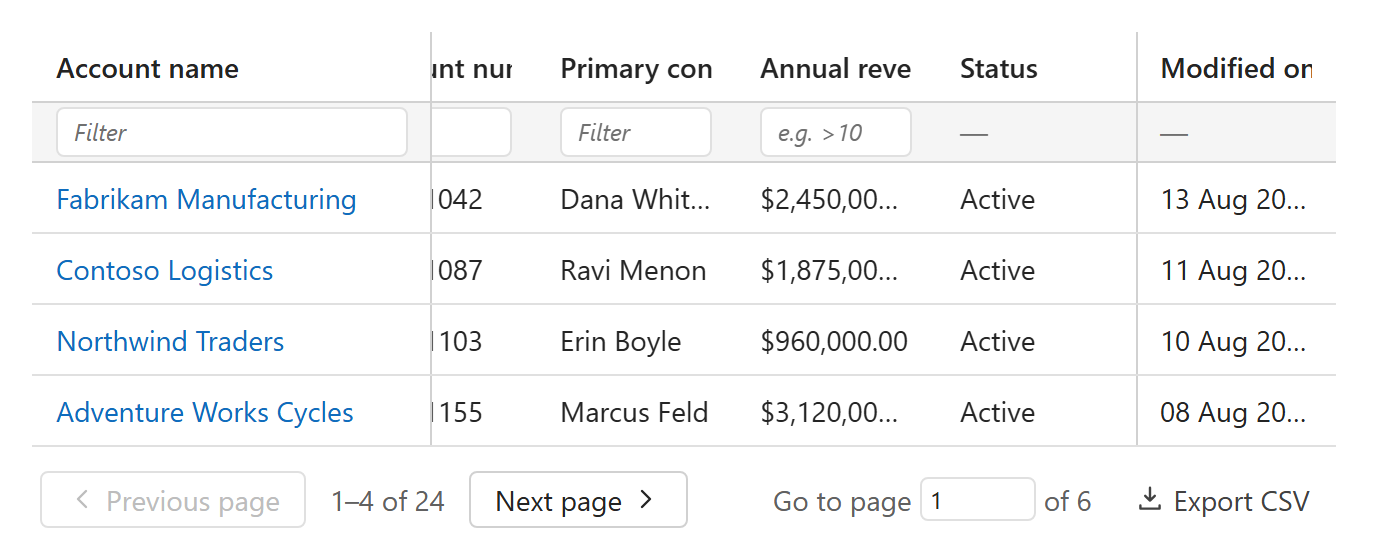
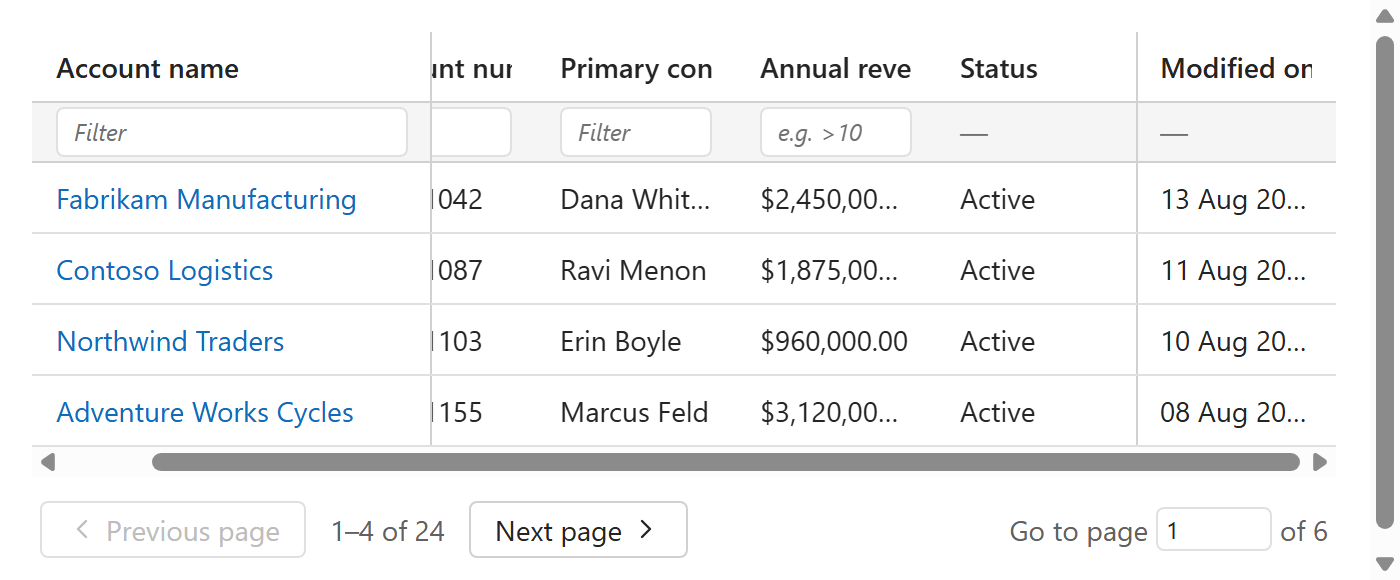
An untouched editor closes instead of failing to save
Open a cell, change nothing, click away: a red "could not be saved. Invalid
snapshot with id undefined" under a cell nobody had edited. Observed on a real
subgrid.

The blur handler committed unconditionally, and committing an unchanged value
calls `setValue` with what the record already holds — which stages nothing, and
`save()` with nothing staged throws. **That error does not mean "wrong column
name"; it means "there is no pending change to save"**, and a wrong column name
is only one way to have none. The 0.3.3 note reading it as the former was
narrower than the truth.

Untouched editors now close on both blur and Enter, compared as the strings the
editor holds: `props.initial` is what `editorValue` put in the box, so the test
is exactly "did the user alter what they were shown" — no coercion, no 20 versus
20.00 argument.

Measured in a browser, both directions, because the suite cannot see it. Two
things went wrong while measuring and both are worth more than the fix:
`chrome --headless --dump-dom` returned zero bytes and PowerShell's `-match`
against `$null` answers False without complaining, so the first "verified" run
read nothing and reported an absent error as proof — the `img.src` bug again, a
check that silently reads the wrong thing reporting its own blindness as proof.
And `element.blur()` does nothing when the document is not focused, so the
gesture never fired; dispatching the event directly is what reaches React.
[…]

diff --git a/dev/preview.html b/dev/preview.html
@@ -33,7 +33,10 @@
     ?pinStart=1&pinEnd=1   pin that many columns at each end
     ?edit=1                turn editing on
     ?open=1                and open the first editable cell's editor
+    ?blur=1                then leave it untouched — the no-op commit case
+    ?type=Text             or type this into it and leave — the committing case
     ?filter=in             type a filter into the first text column
+    ?export=1              show the Export CSV button (manifest default is off)
     ?select=none|single|multiple
     ?page=25               page size
 -->
@@ -136,7 +139,10 @@
                 selectionMode: params.get('select') || 'multiple',
                 enableSorting: true,
                 enableFiltering: true,
-                enableExport: true,
+                // Manifest default is off. `?export=1` turns it on, so a narrow
+                // capture shows what an unconfigured control actually looks
+                // like rather than one with every switch flipped.
+                enableExport: params.get('export') === '1',
                 openOnRowClick: true,
                 pageSize: number('page'),
                 pageSizeOptions: params.get('sizes'),
@@ -232,6 +238,65 @@
                 if (trigger) {
                     trigger.click();
                 }
+            }
+
+            /*
+              Open a cell and leave it without touching it — the gesture that
+              produced a red error under a cell nobody had edited. Committing an
+              unchanged value stages nothing, and `save()` with nothing staged
+              throws `Invalid snapshot with id undefined`.
+
+              A second timeout because the editor mounts and focuses in an
+              effect, which has not run when this one does.
+            */
+            /*
+              Type into the open editor and leave it — the committing case, and
+              the other half of what `?blur` proves. Without this pair, a fix
+              that stopped an untouched editor writing could equally be a fix
+              that stopped every editor writing.
+
+              Through the prototype setter because React tracks the previous
+              value on the node and swallows a direct `.value =` as "no change".
+            */
+            var typed = params.get('type');
+
+            if (typed !== null) {
+                window.setTimeout(function () {
+                    var editor = document.querySelector('.DataTable-editor');
+
+                    if (editor) {
+                        Object.getOwnPropertyDescriptor(
+                            window.HTMLInputElement.prototype,
+                            'value',
+                        ).set.call(editor, typed);
+                        editor.dispatchEvent(new Event('input', { bubbles: true }));
+
+                        /*
+                          Blur in a *later* task, not this one.
+
+                          The blur handler closes over the `value` of the render
+                          it was created in, and React has not re-rendered yet
+                          when the input event returns — so blurring here reads
+                          the value from before the keystroke, decides nothing
+                          changed, and cancels. A person typing cannot hit that:
+                          their keystroke and their click are separate tasks.
+                          This is the repro being wrong, not the control.
+                        */
+                        window.setTimeout(function () {
+                            editor.blur();
+                        }, 50);
+                    }
+                }, 100);
+            }
+
+            if (params.get('blur') === '1') {
+                window.setTimeout(function () {
+                    var editor = document.querySelector('.DataTable-editor');
+
+                    if (editor) {
+                        editor.blur();
+                    }
+                }, 100);
             }
 
             document.title = 'ready';

diff --git a/DataTable/components/DataTableControl.tsx b/DataTable/components/DataTableControl.tsx
@@ -81,10 +81,37 @@ function CellEditor(props: {
         }
     }, []);
 
+    /**
+     * Leaving the editor.
+     *
+     * **An untouched editor closes without writing**, and that is a fix rather
+     * than an optimisation. Committing an unchanged value calls `setValue` with
+     * what the record already holds, which stages nothing — and `save()` with
+     * nothing staged throws `UciError: Invalid snapshot with id undefined`. So
+     * opening a cell, changing your mind and clicking away produced a red error
+     * under a cell nobody had edited, observed on a real subgrid 2026-09-09.
+     *
+     * That error string is the same one a wrong column name produces, which is
+     * worth knowing: it means "there is no pending change to save", and a bad
+     * column name is only one way to have none.
+     *
+     * Compared as the strings the editor holds rather than as coerced values.
+     * `props.initial` is what `editorValue` put in the box, so the comparison is
+     * exactly "did the user alter what they were shown" — no type coercion, no
+     * `20` versus `20.00` argument, and nothing to get wrong per column type.
+     */
     const finish = (): void => {
-        if (!cancelled.current) {
-            props.onCommit(value);
+        if (cancelled.current) {
+            return;
         }
+
+        if (value === props.initial) {
+            props.onCancel();
+
+            return;
+        }
+
+        props.onCommit(value);
     };
 
     const onKeyDown = (event: React.KeyboardEvent): void => {
@@ -98,7 +125,10 @@ function CellEditor(props: {
 
         if (event.key === 'Enter') {
             event.preventDefault();
-            props.onCommit(value);
+            // Through `finish` rather than straight to `onCommit`: Enter on an
+            // untouched cell is the same "nothing changed" as clicking away, and
+            // committing it throws the same `Invalid snapshot` error.
+            finish();
         }
     };
 

diff --git a/DataTable/css/DataTable.css b/DataTable/css/DataTable.css
@@ -403,6 +403,21 @@
      * so the width that matters is the box it was handed, not the screen.
      */
     margin-inline-start: auto;
+    /*
+     * **Without this the group cannot wrap, and it is clipped instead.**
+     *
+     * `flex-wrap: wrap` above only engages against a constrained width, and a
+     * flex item's width comes from its content — so on a narrow host the group
+     * sized itself to "Go to page [1] of 8  Export CSV", overflowed the row and
+     * was cut off by the host. Observed at 368px, 2026-09-09: the jump box's
+     * label ran off the right edge and Export was a sliver.
+     *
+     * `max-width: 100%` is what turns the content-sized item into a constrained
+     * one, so the wrap that was already asked for actually happens. The `auto`
+     * margin still right-aligns it whenever it does fit on the line, which is
+     * the behaviour at every width that is not a phone.
+     */
+    max-width: 100%;
 }
 
 /*

diff --git a/SPEC.md b/SPEC.md
@@ -945,3 +945,71 @@ the top. Adopting the template's harness is worth doing and was not this change.
 gets the capture page without rebuilding it — SPEC has described it as "~90
 lines, not in the repo" through two releases, and it has now been written three
 times.
+
+## 0.3.4
+
+Two fixes, both found by looking at the control rather than at the code.
+
+### An untouched editor wrote, and the write failed
+
+Open a cell, change nothing, click away: a red *"Score could not be saved.
+Invalid snapshot with id undefined"* under a cell nobody had edited. Observed on
+a real subgrid, 2026-09-09.
+
+The blur handler committed unconditionally. Committing an unchanged value calls
+`setValue` with what the record already holds, which stages nothing — and
+`save()` with nothing staged throws. **That error string does not mean "wrong
+column name"; it means "there is no pending change to save",** and a wrong column
+name is only one way to have none. The 0.3.3 note that reads it as the former is
+narrower than the truth.
+
+An untouched editor now closes without writing, on both blur and Enter. Compared
+as the strings the editor holds — `props.initial` is what `editorValue` put in
+the box — so the test is exactly "did the user alter what they were shown", with
+no coercion and no `20` versus `20.00` argument.
+
+**Measured in a browser rather than reasoned**, because the suite cannot see it:
+opening and leaving an untouched editor closes it with no error and no write;
+typing and leaving commits and shows the new value. Both driven through
+`dev/preview.html`.
+
+Two things went wrong while measuring, and both are worth more than the fix:
+
+- **`chrome --headless --dump-dom` returned zero bytes**, and PowerShell's
+  `-match` against `$null` answers `False` without complaint. So the first
+  "verified" run read nothing and reported the absence of an error as proof
+  there was none. It is the `img.src` bug in `dev/dom.js` all over again: *a
+  check that silently reads the wrong thing reports its own blindness as proof.*
+- **`element.blur()` does nothing when the document itself is not focused**, so
+  the gesture never fired. Dispatching the `blur` event directly is what
+  reaches React's handler in a background pane.
+
+### The pager's tools could not wrap, so they were clipped
+
+`.DataTable-pagerTools` is pushed right by `margin-inline-start: auto` and had no
+width constraint, so `flex-wrap: wrap` — which only engages against a constrained
+width — never did. On a narrow host the group sized itself to its content,
+overflowed the row and was cut off. `max-width: 100%` turns the content-sized
+item into a constrained one. Verified across 320, 368, 400, 520 and 900px.
+
+**Still open below about 400px**: the pager row itself can exceed the control's
+width, so the jump box clips at the far right even with the tools group
+constrained. The `max-width` fix is necessary and not sufficient, and this is
+recorded rather than hidden — `media/screenshot-narrow.png` is captured at 480px,
+which is honest about being the width where the layout is clean.
+
+### What the screenshots are, and one way they lied
+
+All four in `media/` are captured from `dev/preview.html` with headless Chrome at
+a device scale factor of 2.
+
+The first attempt passed `--hide-scrollbars`, which hides the horizontal
+scrollbar inside `.DataTable-scroll` — **the single thing the narrow screenshot
+exists to show.** The picture was of a table clipped at the right edge with no
+indication it could scroll, which is what a broken control looks like. The narrow
+and pinned captures now run without it; the two wide ones keep it, having nothing
+to scroll.
+
+`enableExport` defaults to **off**, and the preview page was forcing it on. A
+narrow capture now shows what an unconfigured control looks like rather than one
+with every switch flipped.
